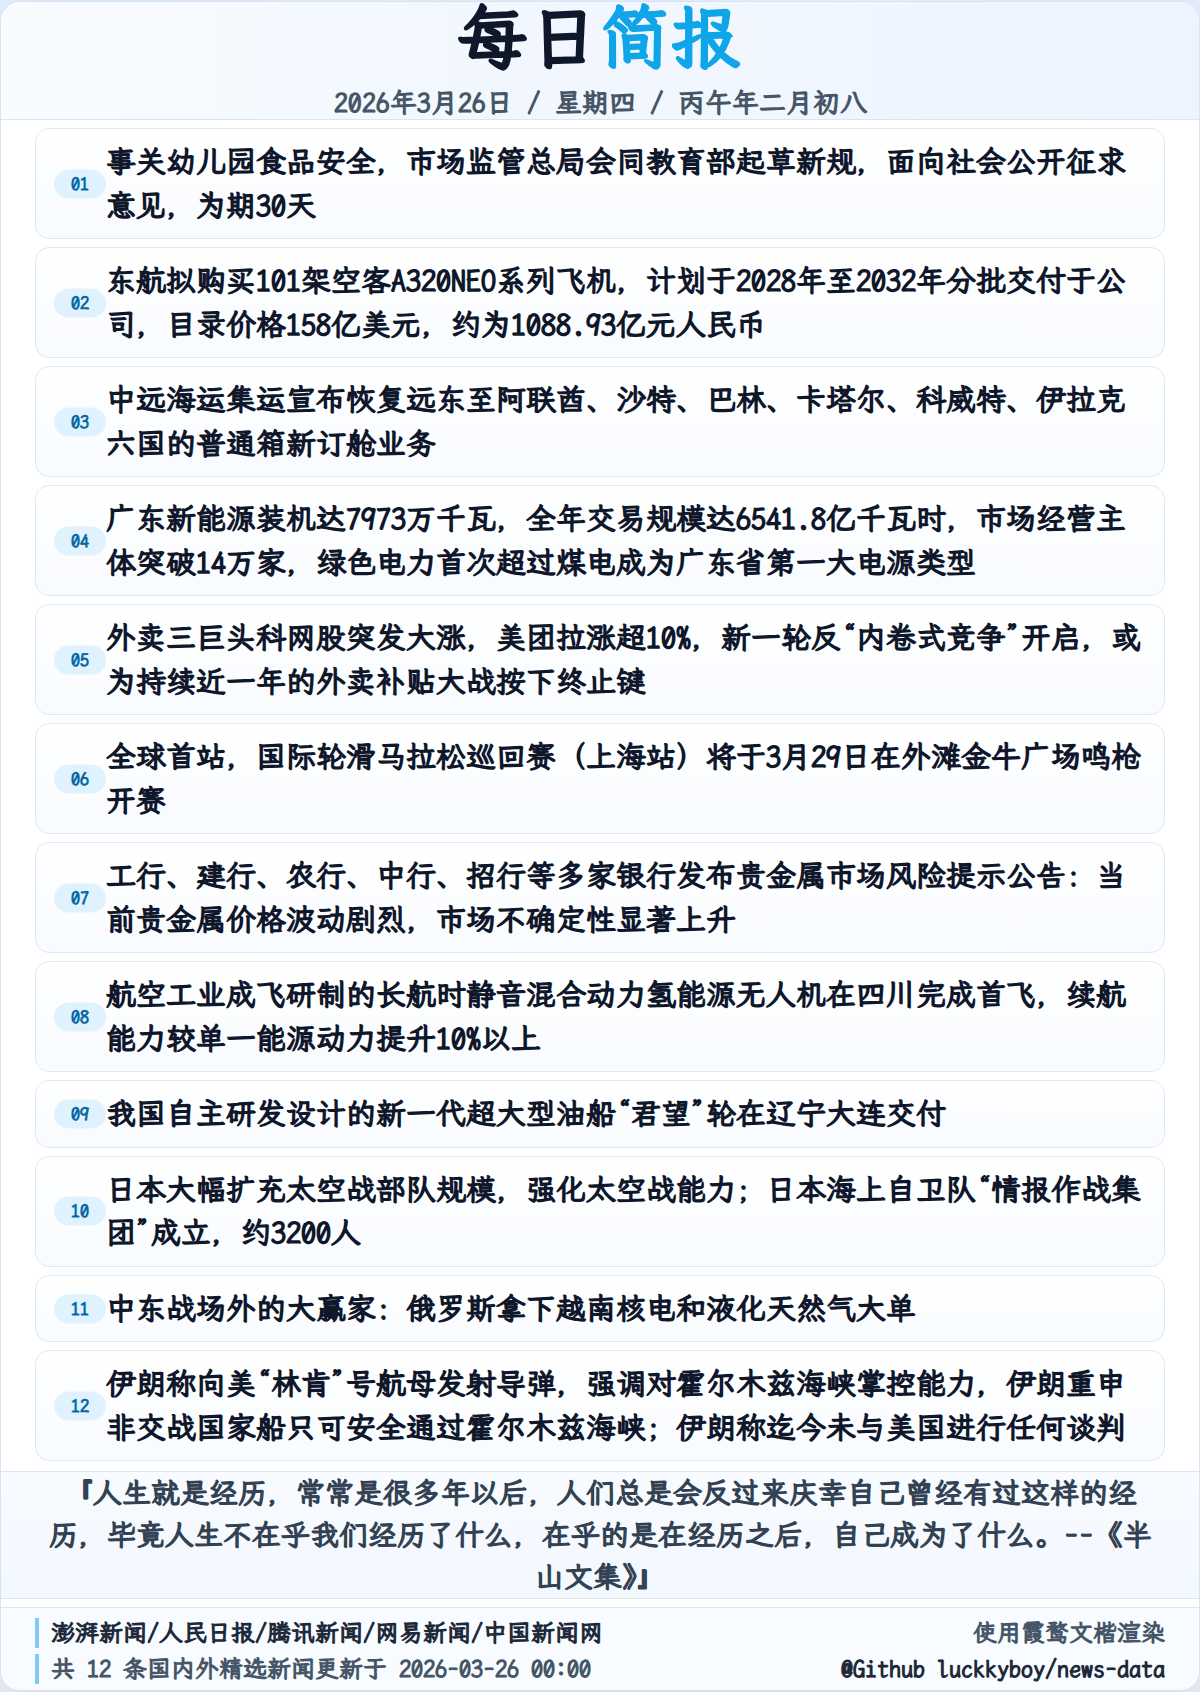
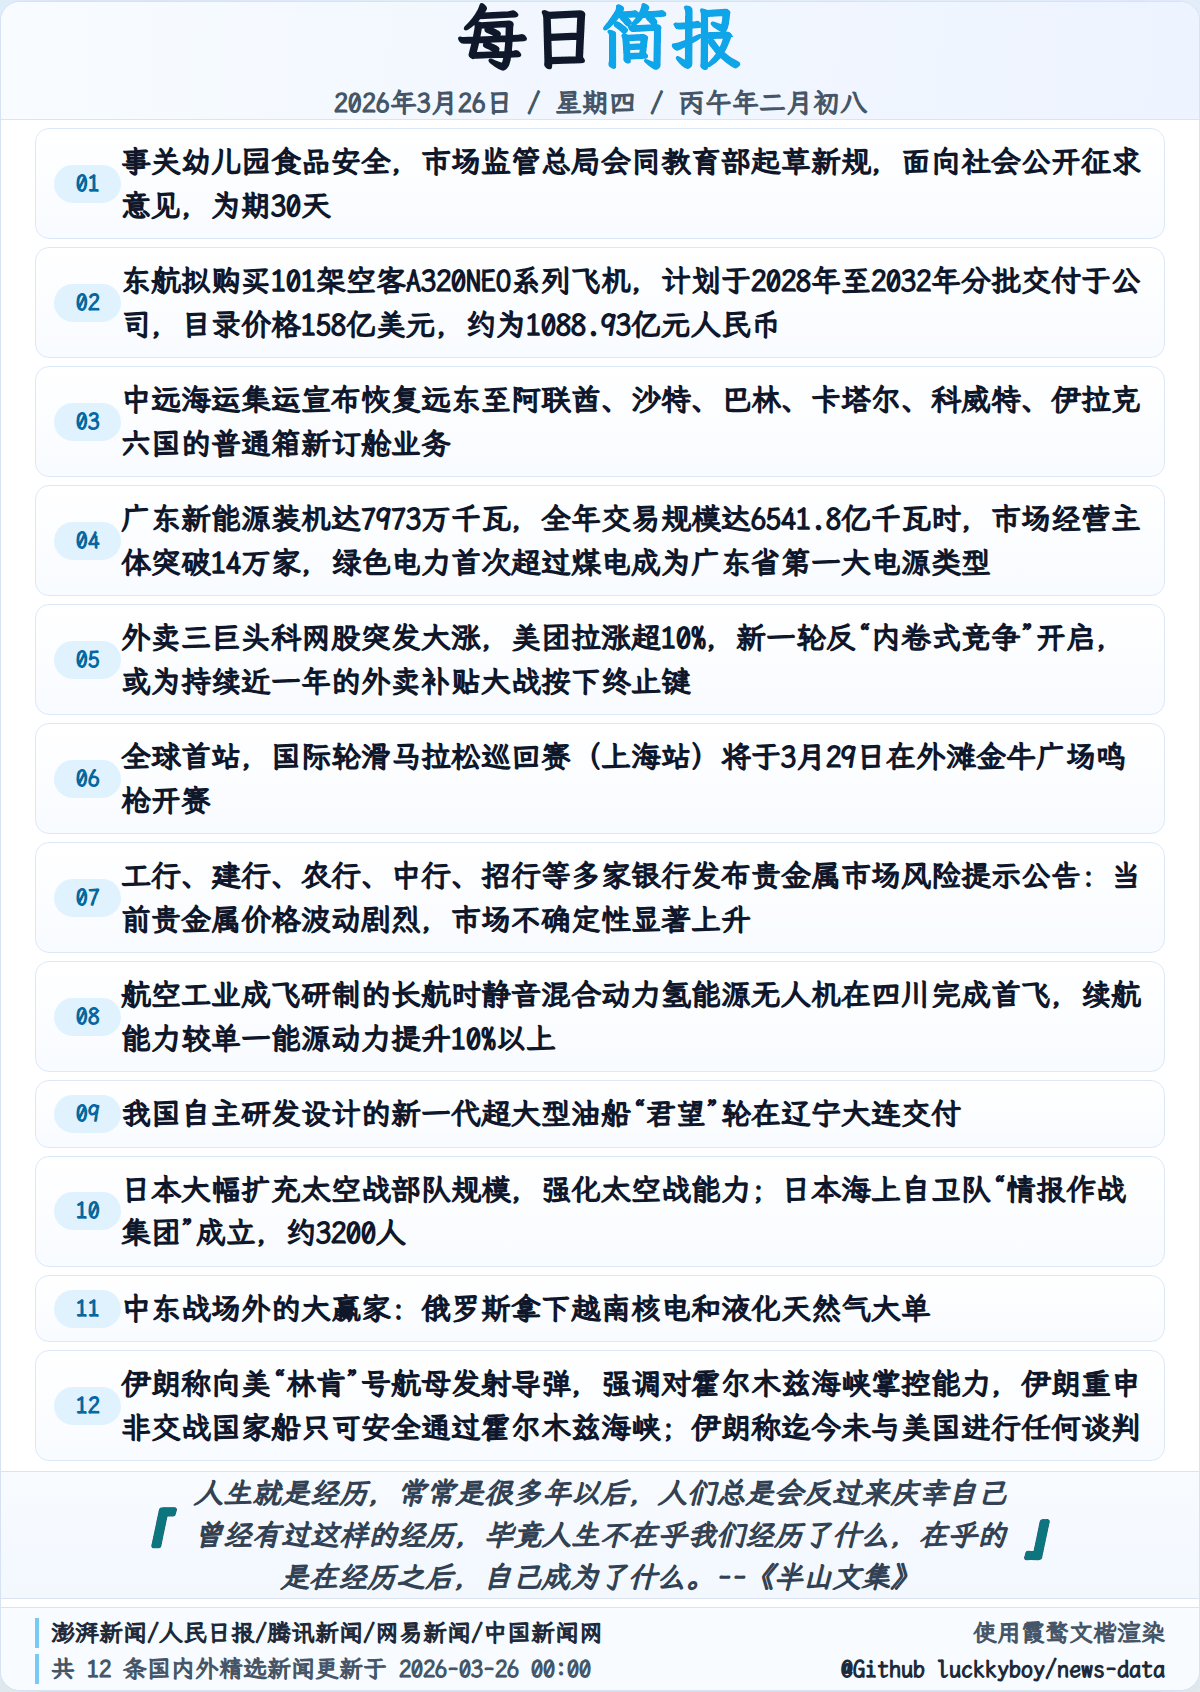
style: tighten quote focus

Changed region(s): [[0.0617, 0.3688, 0.9558, 0.9527], [0.0617, 0.0615, 0.9558, 0.3381], [0.0308, 0.8913, 0.0617, 0.922]]

diff --git a/app/infrastructure/render/templates/base.html b/app/infrastructure/render/templates/base.html
@@ -99,7 +99,7 @@
         counter-increment: brief-item;
         position: relative;
         margin: 0;
-        padding: 11px 18px 11px 70px;
+        padding: 11px 18px 11px 85px;
         border: 1px solid #dce8f8;
         background: linear-gradient(180deg, #ffffff 0%, #f8fbff 100%);
         border-radius: 14px;
@@ -110,12 +110,12 @@
         left: 18px;
         top: 50%;
         transform: translateY(-50%);
-        min-width: 36px;
-        padding: 2px 8px;
+        min-width: 47px;
+        padding: 3px 10px;
         border-radius: 999px;
         background: #e0f2fe;
         color: #0369a1;
-        font-size: 18px;
+        font-size: 23px;
         font-weight: 800;
         line-height: 1.4;
         text-align: center;
@@ -127,20 +127,44 @@
         display: flex;
         align-items: center;
         justify-content: center;
-        padding: 0 34px 0;
+        padding: 0 56px 0;
         height: 128px;
         margin-bottom: 8px;
         border-top: 1px solid var(--line);
         border-bottom: 1px solid var(--line);
         background: linear-gradient(180deg, #f8fbff 0%, #f3f8ff 100%);
       }
+      .quote-shell {
+        position: relative;
+        width: 100%;
+        display: flex;
+        justify-content: center;
+        align-items: center;
+      }
+      .quote-mark {
+        position: absolute;
+        top: 50%;
+        transform: translateY(-50%) skewX(-12deg);
+        color: #0f766e;
+        font-size: 58px;
+        font-weight: 800;
+        line-height: 1;
+      }
+      .quote-mark-left {
+        left: 58px;
+      }
+      .quote-mark-right {
+        right: 58px;
+      }
       .quote-text {
         margin: 0;
+        max-width: 76%;
         color: #334155;
         text-align: center;
         font-size: 29px;
         font-weight: 700;
         line-height: 1.45;
+        font-style: italic;
       }
       .footer {
         display: grid;

diff --git a/app/infrastructure/render/templates/partials/quote.html b/app/infrastructure/render/templates/partials/quote.html
@@ -1,7 +1,15 @@
 <section class="quote-zone">
   {% if quote_text %}
-  <p id="quote" class="quote-text">『{{ quote_text }}』</p>
+  <div id="quote" class="quote-shell">
+    <span class="quote-mark quote-mark-left" aria-hidden="true">『</span>
+    <p class="quote-text">{{ quote_text }}</p>
+    <span class="quote-mark quote-mark-right" aria-hidden="true">』</span>
+  </div>
   {% else %}
-  <p id="quote" class="quote-text" hidden></p>
+  <div id="quote" class="quote-shell" hidden>
+    <span class="quote-mark quote-mark-left" aria-hidden="true">『</span>
+    <p class="quote-text"></p>
+    <span class="quote-mark quote-mark-right" aria-hidden="true">』</span>
+  </div>
   {% endif %}
 </section>

diff --git a/tests/unit/test_render_template_exists.py b/tests/unit/test_render_template_exists.py
@@ -28,6 +28,10 @@ def test_base_template_uses_adaptive_height_layout_contract() -> None:
     base_template = Path(TEMPLATE_PATH).parent / "base.html"
     content = base_template.read_text(encoding="utf-8")
     content_section = content.split(".content {", maxsplit=1)[1].split("}", maxsplit=1)[0]
+    quote_zone_section = content.split(".quote-zone {", maxsplit=1)[1].split("}", maxsplit=1)[0]
+    quote_shell_section = content.split(".quote-shell {", maxsplit=1)[1].split("}", maxsplit=1)[0]
+    quote_mark_section = content.split(".quote-mark {", maxsplit=1)[1].split("}", maxsplit=1)[0]
+    quote_text_section = content.split(".quote-text {", maxsplit=1)[1].split("}", maxsplit=1)[0]
 
     assert "#news-card {" in content
     assert "display: flex;" in content
@@ -38,3 +42,9 @@ def test_base_template_uses_adaptive_height_layout_contract() -> None:
     assert "overflow: hidden;" not in content_section
     assert ".quote-zone {" in content
     assert "margin-bottom: 8px;" in content
+    assert "padding: 0 56px 0;" in quote_zone_section
+    assert "position: relative;" in quote_shell_section
+    assert "display: flex;" in quote_shell_section
+    assert "transform: translateY(-50%) skewX(-12deg);" in quote_mark_section
+    assert "max-width: 76%;" in quote_text_section
+    assert "font-style: italic;" in quote_text_section

diff --git a/tests/unit/test_playwright_image_renderer.py b/tests/unit/test_playwright_image_renderer.py
@@ -25,7 +25,10 @@ def test_build_html_injects_document_fields() -> None:
     html = renderer.build_html(document)
 
     assert "<li>第一条</li>" in html
-    assert "『一句话总结』" in html
+    assert '<div id="quote" class="quote-shell">' in html
+    assert '<span class="quote-mark quote-mark-left" aria-hidden="true">『</span>' in html
+    assert '<p class="quote-text">一句话总结</p>' in html
+    assert '<span class="quote-mark quote-mark-right" aria-hidden="true">』</span>' in html
     assert "window.__DATA__ =" not in html
     assert "__NEWS_DATA__" not in html
     assert "2026年3月27日" in html
@@ -83,3 +86,7 @@ def test_build_html_uses_adaptive_card_height_layout() -> None:
     assert "grid-template-rows:" not in html
     assert ".quote-zone {" in html
     assert "margin-bottom: 8px;" in html
+    assert ".quote-shell {" in html
+    assert "position: relative;" in html
+    assert "font-style: italic;" in html
+    assert "transform: translateY(-50%) skewX(-12deg);" in html
